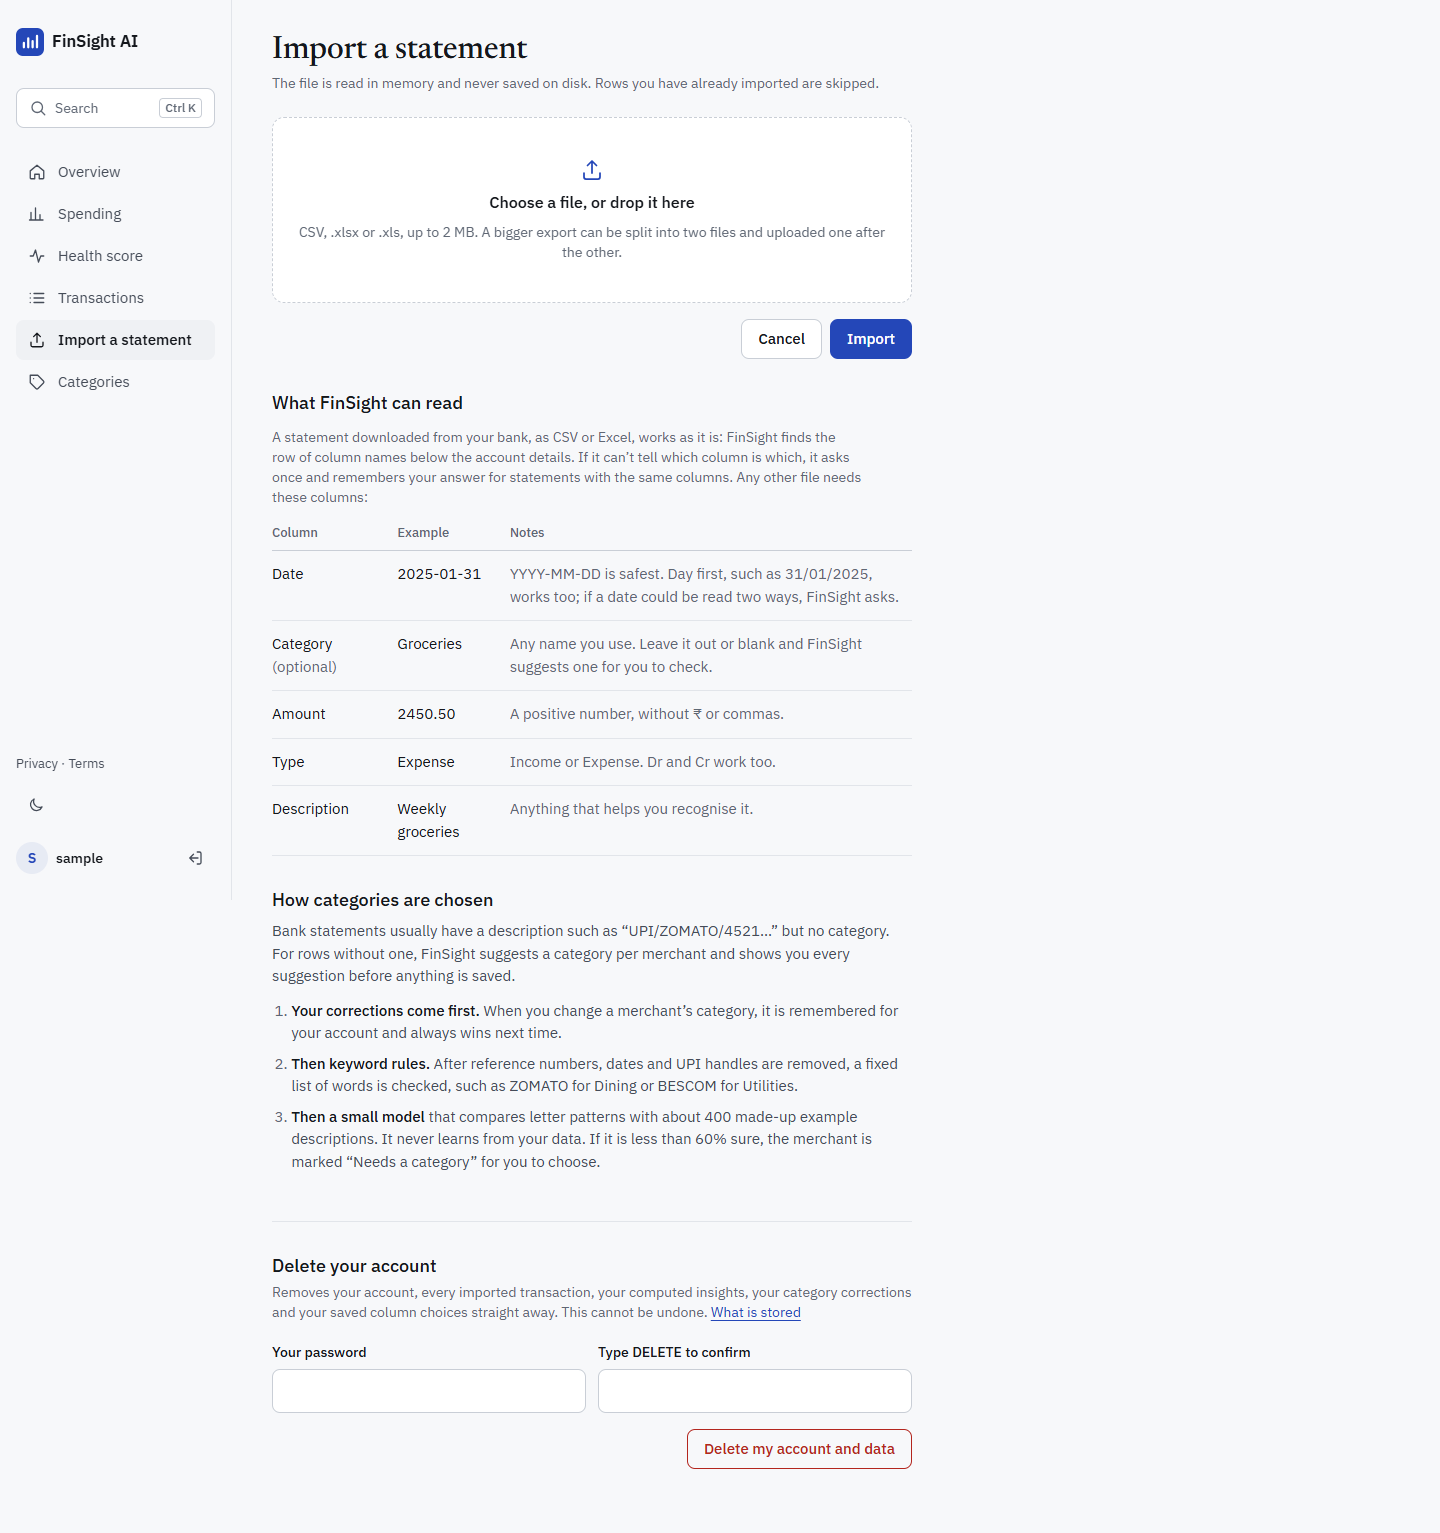
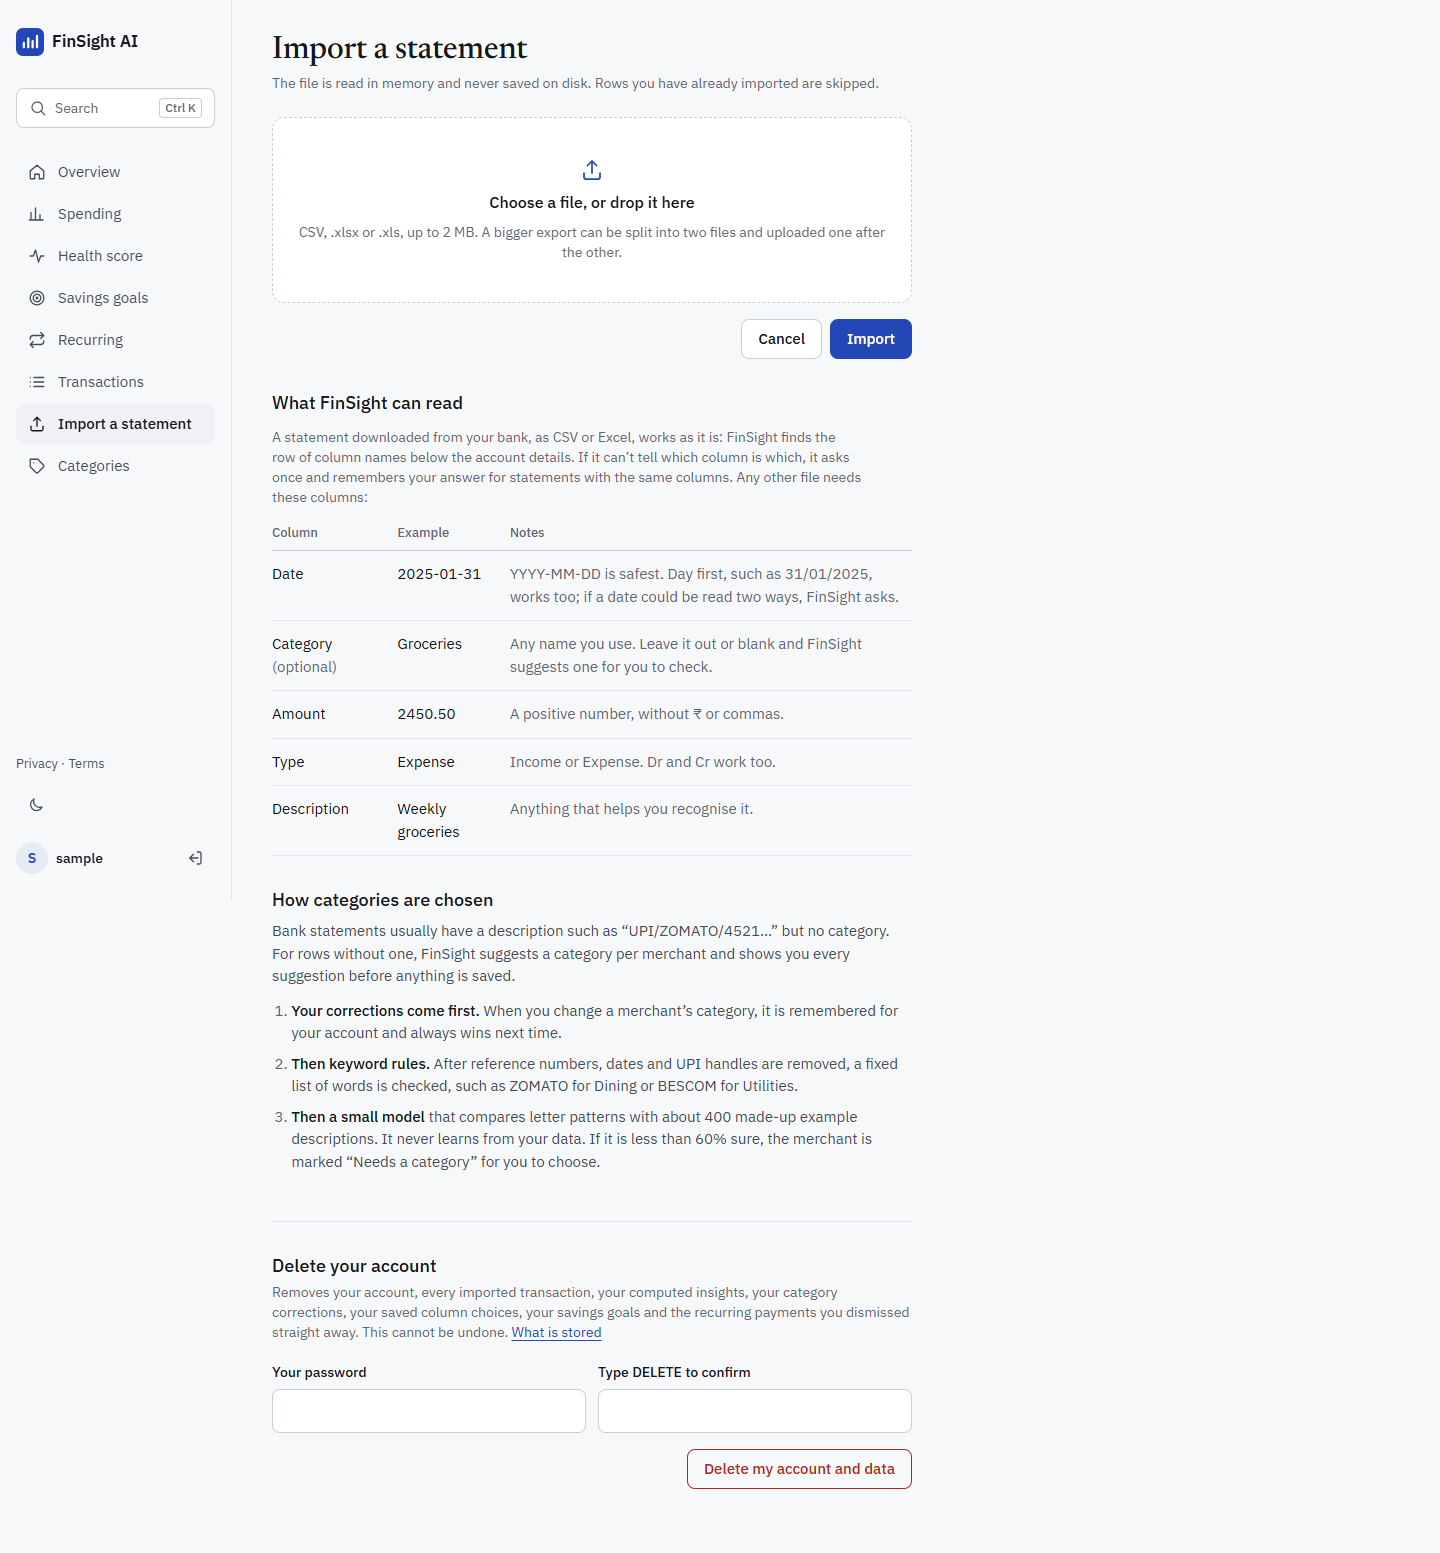
docs: screenshots of Savings goals and Recurring payments, filled and empty
scripts/screenshots.py gives the sample user two goals and one dismissed payment, and signs up a second user with one month of a made-up statement for the empty states, then captures both sections at 1440 and 390 in light and dark. README gets four rows for them. The other captures are refreshed: the sidebar now lists Savings goals and Recurring.

diff --git a/scripts/screenshots.py b/scripts/screenshots.py
@@ -10,6 +10,8 @@ sample transactions, then saves:
   import review step for REVIEW_CSV (a made-up statement with no Category column), the column
   screen for COLUMNS_CSV (a made-up bank layout FinSight doesn't know), the error page, and the
   Categories page after saving the review
+- docs/screenshots/<goals|recurring>[-empty]-<width>-<theme>.png   the two sections, filled (the sample
+  user has two goals and one dismissed payment) and empty (a second user with one month of REVIEW_CSV)
 
 Needs the dev requirements (Playwright) and Google Chrome, or Playwright's Chromium.
 Nothing from the run is kept: the database lives in a temporary folder.
@@ -20,6 +22,7 @@ import os
 import sys
 import tempfile
 import threading
+from datetime import date
 from pathlib import Path
 
 from playwright.sync_api import sync_playwright
@@ -28,6 +31,10 @@ ROOT = Path(__file__).resolve().parents[1]
 PORT = 5077
 BASE = f"http://127.0.0.1:{PORT}"
 USER = {"username": "sample", "email": "sample@example.com", "password": "sample-password-2025"}
+EMPTY_USER = {"username": "newcomer", "email": "newcomer@example.com", "password": "newcomer-password-2025"}
+# Goals for the sample user: name, target, months from now.
+GOALS = [("Emergency fund", "1,50,000", 8), ("Goa trip", "60,000", 4)]
+SECTIONS = ("goals", "recurring")
 
 # Landing-page crops: name -> (first, last) element of one dashboard component. Each crop runs from
 # the top of the first to the bottom of the last, with a thin margin of page. "overview" (the hero) is
@@ -101,21 +108,47 @@ def settle(page) -> None:
     page.wait_for_timeout(300)
 
 
-def sign_up(context) -> None:
+def sign_up(context, user=USER, statement: Path | None = None) -> None:
+    """Sign up, then load the sample data, or import and save `statement` instead."""
     page = context.new_page()
     page.goto(f"{BASE}/register")
     for field in ("username", "email", "password"):
-        page.fill(f"input[name={field}]", USER[field])
-    page.fill("input[name=confirm_password]", USER["password"])
+        page.fill(f"input[name={field}]", user[field])
+    page.fill("input[name=confirm_password]", user["password"])
     page.click("button[type=submit]")
     page.wait_for_load_state("networkidle")
     if "/login" in page.url:
-        page.fill("input[name=username]", USER["username"])
-        page.fill("input[name=password]", USER["password"])
+        page.fill("input[name=username]", user["username"])
+        page.fill("input[name=password]", user["password"])
         page.click("button[type=submit]")
         page.wait_for_load_state("networkidle")
-    page.click("#demoForm button")
+    if statement is None:
+        page.click("#demoForm button")
+    else:
+        page.goto(f"{BASE}/upload")
+        page.set_input_files("input[type=file]", str(statement))
+        page.click("form.form button[type=submit]")
+        page.wait_for_load_state("networkidle")
+        page.click("form.review-form button[type=submit]")
     settle(page)
+    page.close()
+
+
+def add_goals_and_dismiss(context) -> None:
+    """Give the sample user two goals and dismiss its smallest recurring payment, so the fold shows."""
+    page = context.new_page()
+    today = date.today()
+    for name, target, months in GOALS:
+        index = today.year * 12 + today.month - 1 + months
+        page.goto(f"{BASE}/goals/new")
+        page.fill("#goal-name", name)
+        page.fill("#goal-target", target)
+        page.fill("#goal-target_date", date(index // 12, index % 12 + 1, 1).isoformat())
+        page.click("form.form button[type=submit]")
+        page.wait_for_load_state("networkidle")
+    page.locator("#recurring tbody tr").last.locator("button").click()
+    page.wait_for_load_state("networkidle")
+    page.goto(f"{BASE}/dashboard")  # shows, and so clears, the messages from the steps above
     page.close()
 
 
@@ -151,9 +184,19 @@ def main() -> None:
                     browser = p.chromium.launch(channel="chrome")
                 except Exception:  # no Google Chrome installed: Playwright's own Chromium (`playwright install chromium`)
                     browser = p.chromium.launch()
+                review_csv = Path(tmp) / "statement-october.csv"
+                review_csv.write_text(REVIEW_CSV, encoding="utf-8")
+                columns_csv = Path(tmp) / "account-statement-october.csv"
+                columns_csv.write_text(COLUMNS_CSV, encoding="utf-8")
                 signup = browser.new_context()
                 sign_up(signup)
+                add_goals_and_dismiss(signup)
                 storage = signup.storage_state()
+                signup.close()
+                # One month of a made-up statement: no goals yet and too little history for a recurring payment.
+                signup = browser.new_context()
+                sign_up(signup, EMPTY_USER, review_csv)
+                empty_storage = signup.storage_state()
                 signup.close()
 
                 for theme in THEMES:
@@ -176,12 +219,18 @@ def main() -> None:
                             save_crop(page, img_dir / f"{name}{suffix}-{theme}.jpg", first, last)
                         context.close()
 
-                review_csv = Path(tmp) / "statement-october.csv"
-                review_csv.write_text(REVIEW_CSV, encoding="utf-8")
-                columns_csv = Path(tmp) / "account-statement-october.csv"
-                columns_csv.write_text(COLUMNS_CSV, encoding="utf-8")
                 for theme in THEMES:
                     for width, height in WIDTHS.items():
+                        # The goals and recurring sections on their own, filled and empty.
+                        for suffix, state in (("", storage), ("-empty", empty_storage)):
+                            context = themed_context(browser, theme, width, height, 1, state)
+                            page = context.new_page()
+                            page.goto(f"{BASE}/dashboard")
+                            settle(page)
+                            page.add_style_tag(content=".tabbar, .mobile-bar { position: static; }")
+                            for section in SECTIONS:
+                                page.locator(f"#{section}").screenshot(path=shots_dir / f"{section}{suffix}-{width}-{theme}.png")
+                            context.close()
                         # The review step only exists after an upload; nothing is saved until Save.
                         context = themed_context(browser, theme, width, height, 1, storage)
                         page = context.new_page()
@@ -238,7 +287,7 @@ def main() -> None:
                 browser.close()
         finally:
             server.shutdown()
-    print(f"Saved {(len(CROPS) + 1) * len(THEMES) * 2} crops to {img_dir} and {(len(PAGES) + 3) * len(WIDTHS) * len(THEMES)} pages to {shots_dir}")
+    print(f"Saved {(len(CROPS) + 1) * len(THEMES) * 2} crops to {img_dir} and {(len(PAGES) + 3 + 2 * len(SECTIONS)) * len(WIDTHS) * len(THEMES)} pages to {shots_dir}")
 
 
 if __name__ == "__main__":

diff --git a/README.md b/README.md
@@ -21,6 +21,10 @@ Real captures of the app with the bundled sample data, in both themes.
 | --- | --- | --- | --- | --- |
 | Landing | [![Landing page, light](docs/screenshots/landing-1440-light.png)](docs/screenshots/landing-1440-light.png) | [![Landing page, dark](docs/screenshots/landing-1440-dark.png)](docs/screenshots/landing-1440-dark.png) | [![Landing page on a phone, light](docs/screenshots/landing-390-light.png)](docs/screenshots/landing-390-light.png) | [![Landing page on a phone, dark](docs/screenshots/landing-390-dark.png)](docs/screenshots/landing-390-dark.png) |
 | Overview | [![Overview with sample data, light](docs/screenshots/dashboard-1440-light.png)](docs/screenshots/dashboard-1440-light.png) | [![Overview with sample data, dark](docs/screenshots/dashboard-1440-dark.png)](docs/screenshots/dashboard-1440-dark.png) | [![Overview on a phone, light](docs/screenshots/dashboard-390-light.png)](docs/screenshots/dashboard-390-light.png) | [![Overview on a phone, dark](docs/screenshots/dashboard-390-dark.png)](docs/screenshots/dashboard-390-dark.png) |
+| Savings goals | [![Savings goals with two goals, light](docs/screenshots/goals-1440-light.png)](docs/screenshots/goals-1440-light.png) | [![Savings goals with two goals, dark](docs/screenshots/goals-1440-dark.png)](docs/screenshots/goals-1440-dark.png) | [![Savings goals on a phone, light](docs/screenshots/goals-390-light.png)](docs/screenshots/goals-390-light.png) | [![Savings goals on a phone, dark](docs/screenshots/goals-390-dark.png)](docs/screenshots/goals-390-dark.png) |
+| Savings goals, none yet | [![Savings goals before any are added, light](docs/screenshots/goals-empty-1440-light.png)](docs/screenshots/goals-empty-1440-light.png) | [![Savings goals before any are added, dark](docs/screenshots/goals-empty-1440-dark.png)](docs/screenshots/goals-empty-1440-dark.png) | [![Savings goals before any are added on a phone, light](docs/screenshots/goals-empty-390-light.png)](docs/screenshots/goals-empty-390-light.png) | [![Savings goals before any are added on a phone, dark](docs/screenshots/goals-empty-390-dark.png)](docs/screenshots/goals-empty-390-dark.png) |
+| Recurring payments | [![Recurring payments with one dismissed, light](docs/screenshots/recurring-1440-light.png)](docs/screenshots/recurring-1440-light.png) | [![Recurring payments with one dismissed, dark](docs/screenshots/recurring-1440-dark.png)](docs/screenshots/recurring-1440-dark.png) | [![Recurring payments on a phone, light](docs/screenshots/recurring-390-light.png)](docs/screenshots/recurring-390-light.png) | [![Recurring payments on a phone, dark](docs/screenshots/recurring-390-dark.png)](docs/screenshots/recurring-390-dark.png) |
+| Recurring payments, none found | [![Recurring payments with too little history, light](docs/screenshots/recurring-empty-1440-light.png)](docs/screenshots/recurring-empty-1440-light.png) | [![Recurring payments with too little history, dark](docs/screenshots/recurring-empty-1440-dark.png)](docs/screenshots/recurring-empty-1440-dark.png) | [![Recurring payments with too little history on a phone, light](docs/screenshots/recurring-empty-390-light.png)](docs/screenshots/recurring-empty-390-light.png) | [![Recurring payments with too little history on a phone, dark](docs/screenshots/recurring-empty-390-dark.png)](docs/screenshots/recurring-empty-390-dark.png) |
 | Import | [![Import page, light](docs/screenshots/upload-1440-light.png)](docs/screenshots/upload-1440-light.png) | [![Import page, dark](docs/screenshots/upload-1440-dark.png)](docs/screenshots/upload-1440-dark.png) | [![Import page on a phone, light](docs/screenshots/upload-390-light.png)](docs/screenshots/upload-390-light.png) | [![Import page on a phone, dark](docs/screenshots/upload-390-dark.png)](docs/screenshots/upload-390-dark.png) |
 | Column screen | [![Column screen for an unknown bank layout, light](docs/screenshots/import-columns-1440-light.png)](docs/screenshots/import-columns-1440-light.png) | [![Column screen for an unknown bank layout, dark](docs/screenshots/import-columns-1440-dark.png)](docs/screenshots/import-columns-1440-dark.png) | [![Column screen for an unknown bank layout on a phone, light](docs/screenshots/import-columns-390-light.png)](docs/screenshots/import-columns-390-light.png) | [![Column screen for an unknown bank layout on a phone, dark](docs/screenshots/import-columns-390-dark.png)](docs/screenshots/import-columns-390-dark.png) |
 | Category review | [![Category review step, light](docs/screenshots/import-review-1440-light.png)](docs/screenshots/import-review-1440-light.png) | [![Category review step, dark](docs/screenshots/import-review-1440-dark.png)](docs/screenshots/import-review-1440-dark.png) | [![Category review on a phone, light](docs/screenshots/import-review-390-light.png)](docs/screenshots/import-review-390-light.png) | [![Category review on a phone, dark](docs/screenshots/import-review-390-dark.png)](docs/screenshots/import-review-390-dark.png) |
